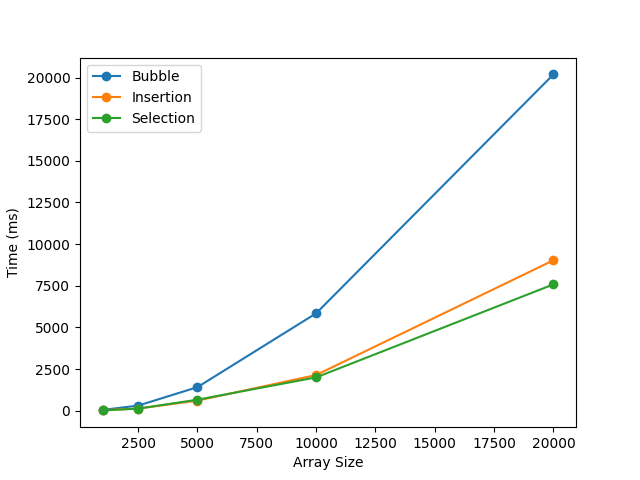
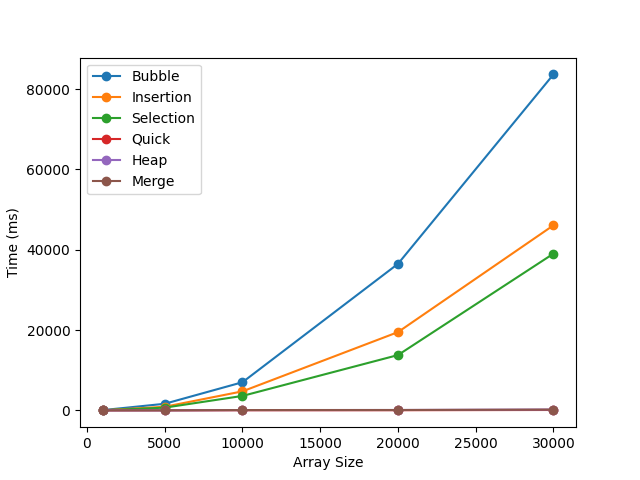
graph updated

diff --git a/main.py b/main.py
@@ -6,7 +6,7 @@ from sorting2 import quick_sort, heap_sort, merge_sort
 import matplotlib.pyplot as plt
 
 
-sizes = [1000, 2500, 5000,10000, 25000]
+sizes = [1000,5000,10000,20000,30000]
 
 insertion_times = []
 selection_times = []
